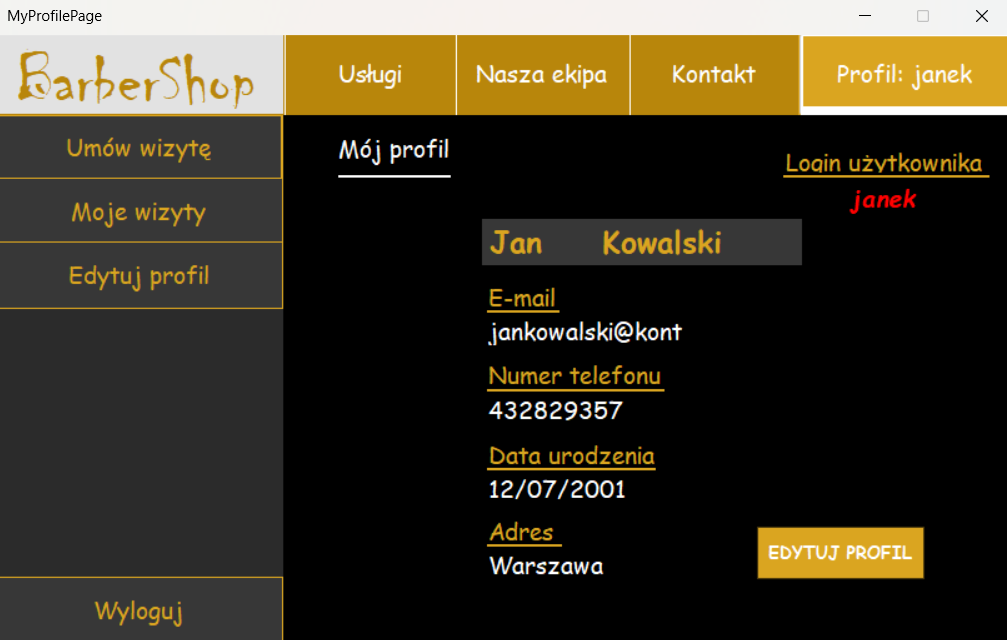
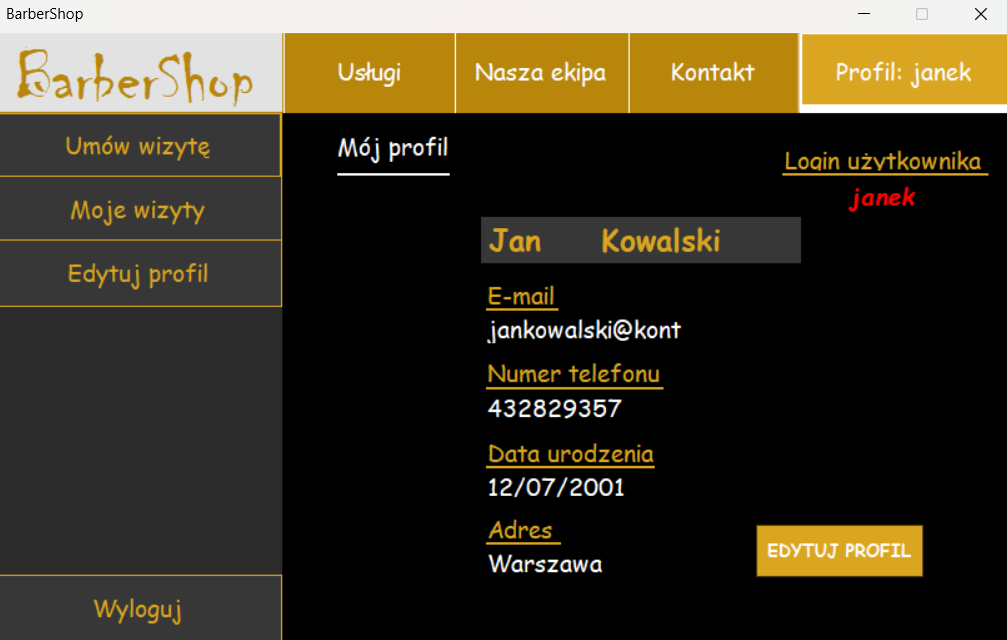
123

diff --git a/MyProfilePage.Designer.cs b/MyProfilePage.Designer.cs
@@ -463,7 +463,7 @@
             this.Name = "MyProfilePage";
             this.ShowIcon = false;
             this.StartPosition = System.Windows.Forms.FormStartPosition.CenterScreen;
-            this.Text = "MyProfilePage";
+            this.Text = "BarberShop";
             this.Load += new System.EventHandler(this.MyProfilePage_Load);
             this.panel2.ResumeLayout(false);
             this.panel1.ResumeLayout(false);
